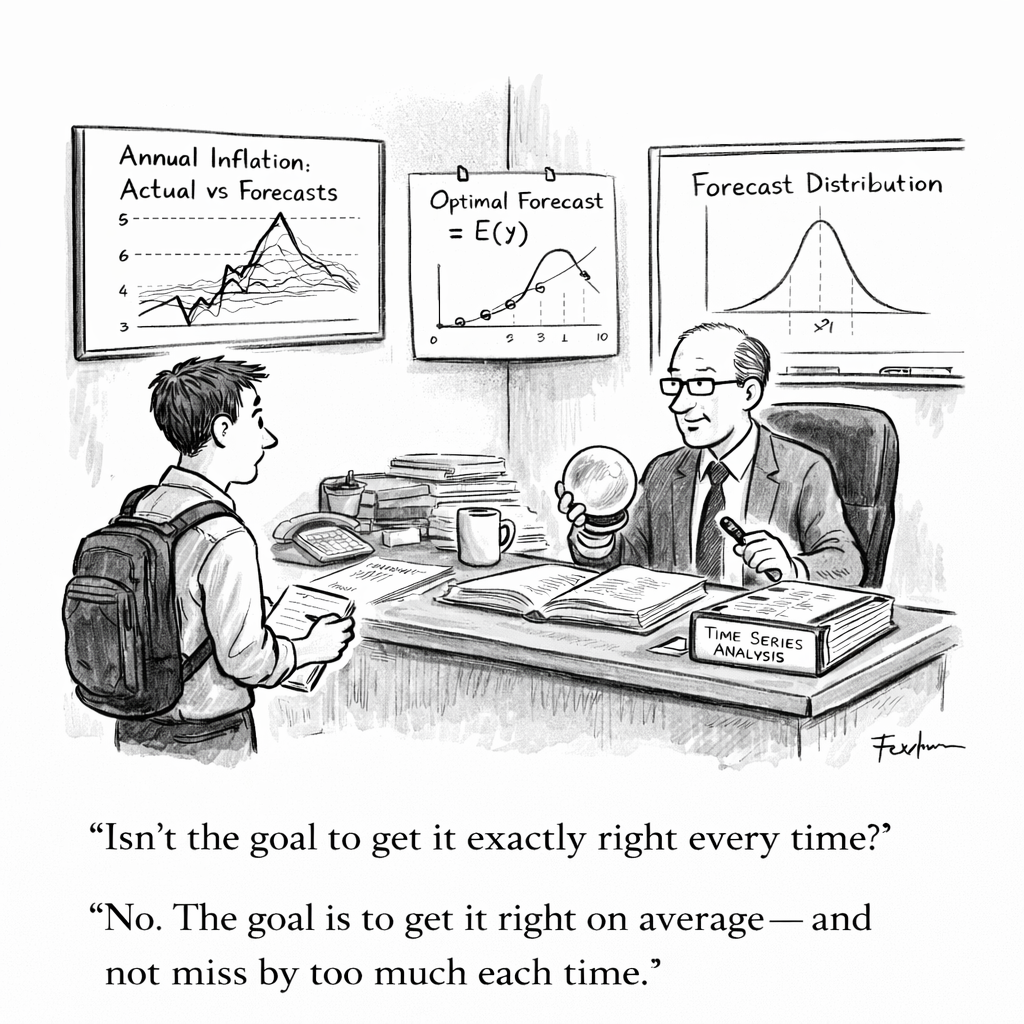
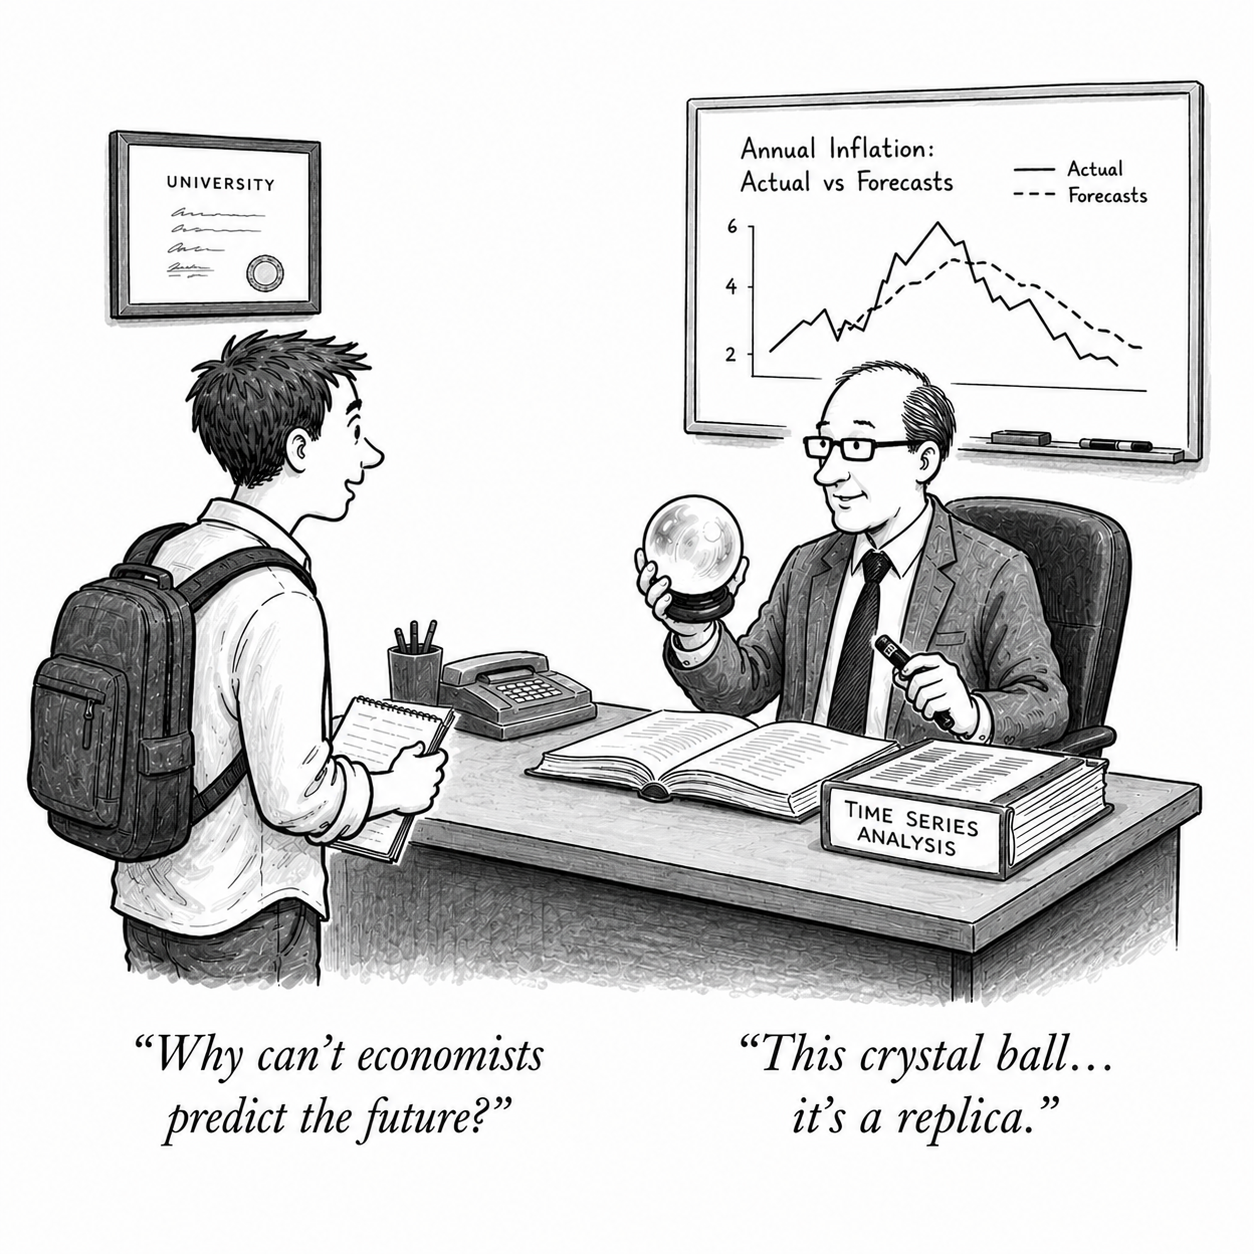
lecture 10

diff --git a/10-Nonlinear.html b/10-Nonlinear.html
@@ -39,11 +39,7 @@ class: center, middle, inverse, title-slide
 
 # Nonlinear Models
 
-.pull-left[
-![](art/nonlinear.png)
-]
-
-.pull-right[
+.right-column[
 Thus far we have considered linear models (i.e., the cases where a stochastic process is a linear function of the information set). 
 
 In contrast, a nonlinear process is characterized by a process that is a nonlinear function of the information set.
@@ -370,7 +366,7 @@ For interval forecasts, we will need to resort to the relevant percentiles of th
 # Key takeaways
 
 .pull-left[
-![](art/todolist.png)
+![](art/10-image.png)
 ]
 
 .pull-right[